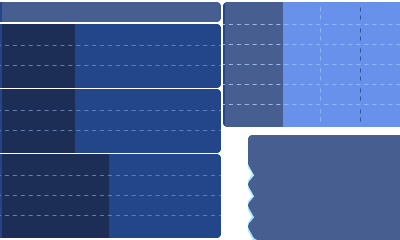
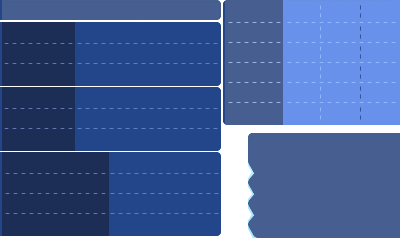
new assets

diff --git a/source/graphic.c b/source/graphic.c
@@ -32,7 +32,7 @@ Copyright (C) 2016 Bernardo Giordano
 int lookup[] = {0x0, 0x1, 0x2, 0x4, 0x5, 0x3};
 
 sftd_font *fontBold18, *fontBold15, *fontBold14, *fontBold12, *fontBold11, *fontBold9, *fontFixed; 
-sf2d_texture *hexBG, *hexButton, *blueTextBox, *otaButton, *generationBG, *generationButton, *includeInfoButton, *upperTextGS, *lowerTextGS, *hiddenPowerBG, *hiddenPowerButton, *selectBoxButton, *ballsBG, *ballButton, *male, *female, *naturesButton, *naturestx, *movesBottom, *topMovesBG, *editorBar, *editorStatsBG, *subArrow, *backgroundTop, *miniBox, *plusButton, *minusButton, *balls, *typesSheet, *transferButton, *bankTop, *shinyStar, *normalBar, *LButton, *RButton, *creditsTop, *pokeball, *topBorder, *bottomBorder, *gameSelectorBottom, *gameSelectorTop, *mainMenuBottom, *menuBar, *menuSelectedBar, *darkButton, *eventTop, *left, *lightButton, *redButton, *right, *spritesSmall, *eventMenuBottomBar, *eventMenuTopBarSelected, *eventMenuTopBar, *warningTop, *warningBottom, *boxView, *infoView, *selector, *editorBG, *plus, *minus, *back, *setting, *selectorCloning, *button, *bottomPopUp, *pokemonBufferBox, *cleanTop, *DSBottomBG, *DSTopBG, *DSBarSelected, *DSBar, *DSEventBottom, *DSLangSelected, *DSLang, *DSEventTop, *DSNormalBarL, *DSNormalBarR, *DSSelectedBarL, *DSSelectedBarR, *topSelectedMove, *settings, *item, *alternativeSpritesSmall;
+sf2d_texture *hexIcon, *hexBG, *hexButton, *blueTextBox, *otaButton, *generationBG, *generationButton, *includeInfoButton, *upperTextGS, *lowerTextGS, *hiddenPowerBG, *hiddenPowerButton, *selectBoxButton, *ballsBG, *ballButton, *male, *female, *naturesButton, *naturestx, *movesBottom, *topMovesBG, *editorBar, *editorStatsBG, *subArrow, *backgroundTop, *miniBox, *plusButton, *minusButton, *balls, *typesSheet, *transferButton, *bankTop, *shinyStar, *normalBar, *LButton, *RButton, *creditsTop, *pokeball, *topBorder, *bottomBorder, *gameSelectorBottom, *gameSelectorTop, *mainMenuBottom, *menuBar, *menuSelectedBar, *darkButton, *eventTop, *left, *lightButton, *redButton, *right, *spritesSmall, *eventMenuBottomBar, *eventMenuTopBarSelected, *eventMenuTopBar, *warningTop, *warningBottom, *boxView, *infoView, *selector, *editorBG, *plus, *minus, *back, *setting, *selectorCloning, *button, *bottomPopUp, *pokemonBufferBox, *cleanTop, *DSBottomBG, *DSTopBG, *DSBarSelected, *DSBar, *DSEventBottom, *DSLangSelected, *DSLang, *DSEventTop, *DSNormalBarL, *DSNormalBarR, *DSSelectedBarL, *DSSelectedBarR, *topSelectedMove, *settings, *item, *alternativeSpritesSmall;
 
 char *gamesList[] = {"X", "Y", "OR", "AS", "S", "M", "D", "P", "PL", "HG", "SS", "B", "W", "B2", "W2"};
 
@@ -74,6 +74,7 @@ void GUIElementsSpecify(int game) {
 		boxView = sfil_load_PNG_file("/3ds/data/PKSM/additionalassets/editor_bottomv2.png", SF2D_PLACE_RAM);
 		back = sfil_load_PNG_file("/3ds/data/PKSM/additionalassets/back_buttonv2.png", SF2D_PLACE_RAM);
 
+		hexIcon = sfil_load_PNG_file("romfs:/res/Hex Button.png", SF2D_PLACE_RAM);
 		hexBG = sfil_load_PNG_file("romfs:/res/Hex BG.png", SF2D_PLACE_RAM);
 		hexButton = sfil_load_PNG_file("romfs:/res/Selected Byte.png", SF2D_PLACE_RAM);
 		blueTextBox = sfil_load_PNG_file("romfs:/res/Blue Textbox.png", SF2D_PLACE_RAM);
@@ -164,6 +165,7 @@ void GUIGameElementsExit() {
 }
 
 void GUIElementsExit() {
+	sf2d_free_texture(hexIcon);
 	sf2d_free_texture(hexBG);
 	sf2d_free_texture(hexButton);
 	sf2d_free_texture(blueTextBox);
@@ -1018,7 +1020,7 @@ void infoViewer(u8* pkmn, int game) {
 	char* values[] = {"HP", "Attack", "Defense", "Sp. Atk", "Sp. Def", "Speed"};
 	
 	printAnimatedBG(true);
-	sf2d_draw_texture(infoView, 0, 0);
+	sf2d_draw_texture(infoView, 0, 1);
 
 	sf2d_draw_texture(normalBar, 252, 155);
 	sf2d_draw_texture(normalBar, 252, 176);
@@ -1369,6 +1371,7 @@ void printPKEditor(u8* pkmn, int game, bool speedy, int additional1, int additio
 		if (mode == ED_BASE || mode == ED_ITEMS || mode == ED_NATURES || mode == ED_BALLS || mode == ED_FORMS) {
 			sf2d_draw_texture(editorBG, 0, 1);
 			sf2d_draw_texture(editorBar, 0, 210);
+			sf2d_draw_texture(hexIcon, 290, 1);
 			
 			sftd_draw_text(fontBold12, 27, 4, WHITE, 12, (char*)personal.species[n]);
 			sf2d_draw_texture_part(balls, -2, -6, 32 * (getBall(pkmn) % 8), 32 * (getBall(pkmn) / 8), 32, 32);
